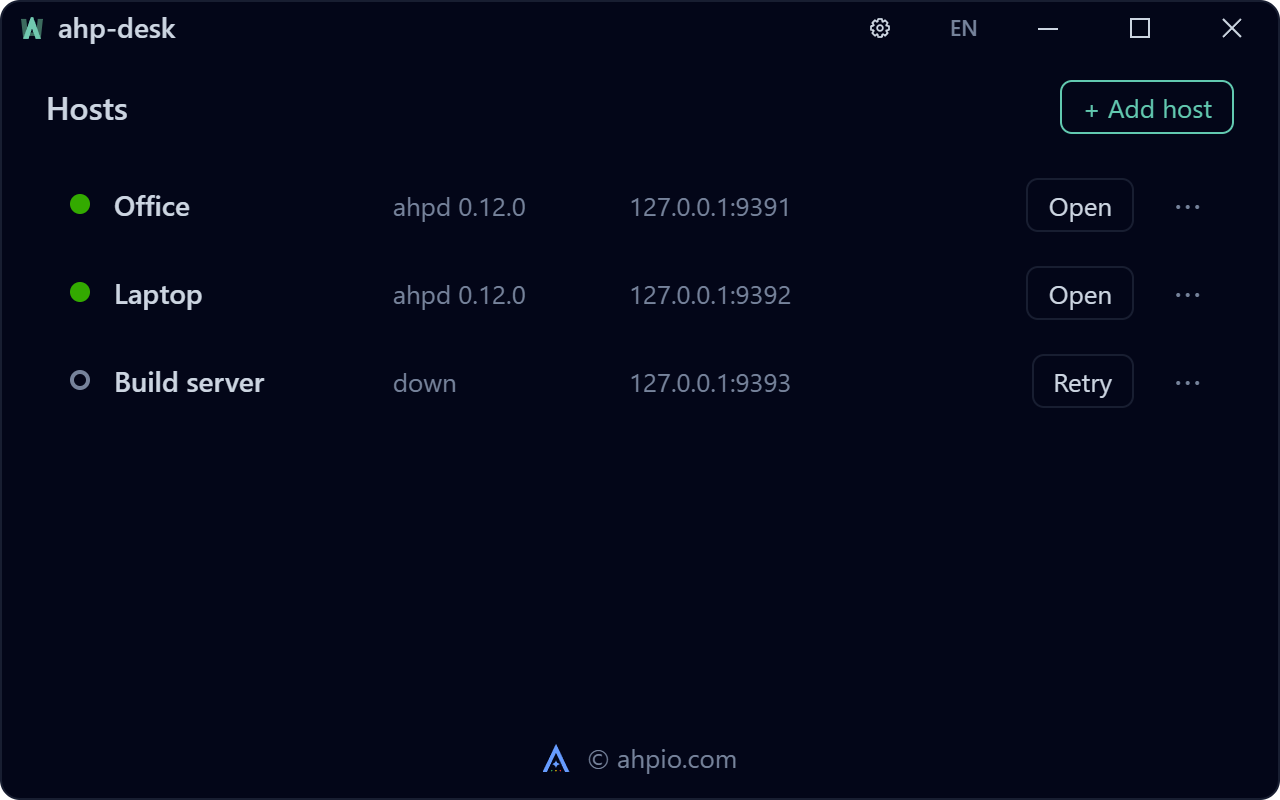
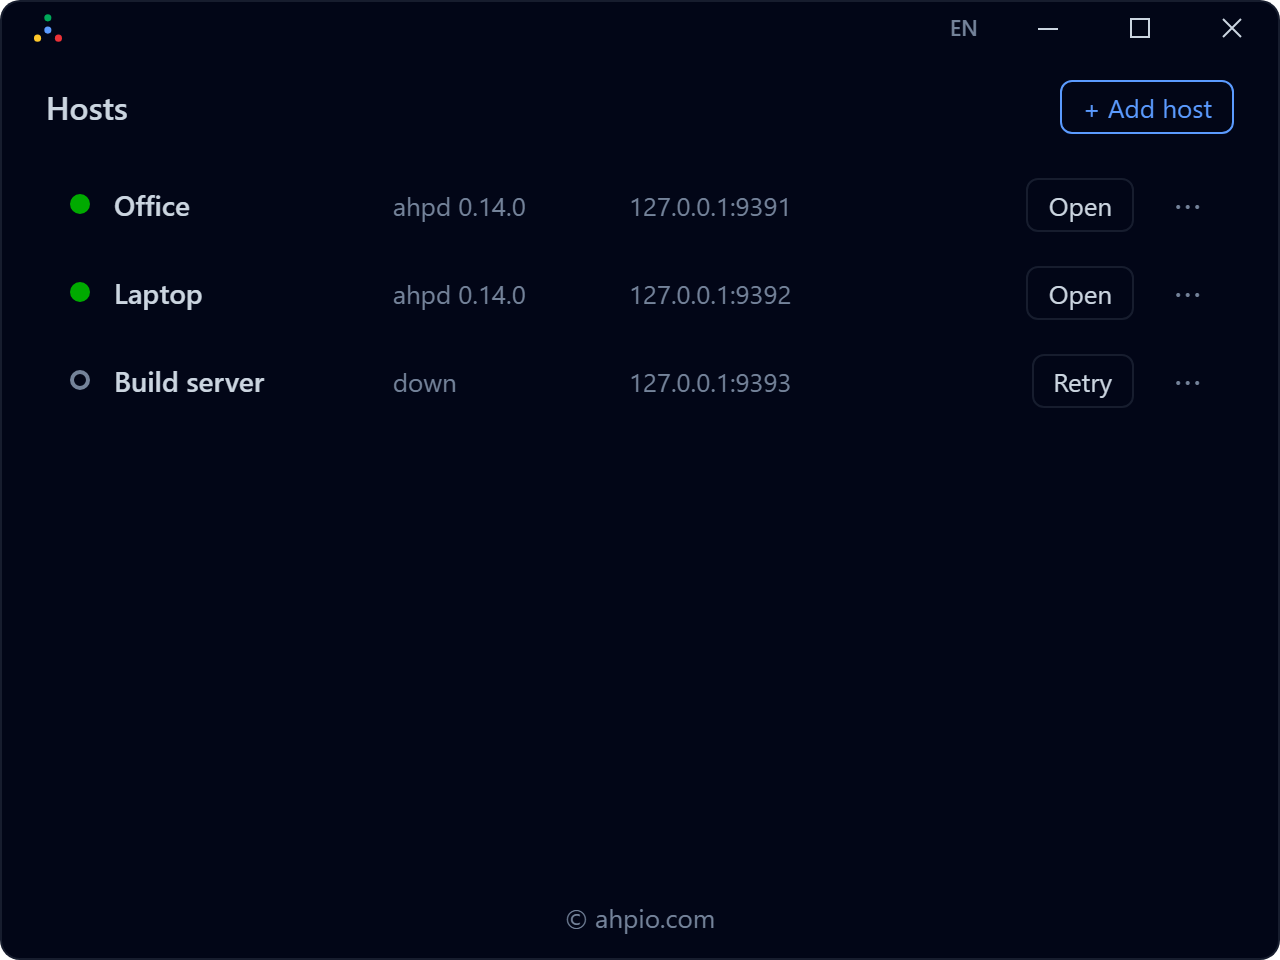
README: screenshots of 0.2.3 and the three ways to add a host
The host list and welcome screenshots show ahpio's mark, the blue accent and Launch at startup; Where is your host, This computer and Connect via SSH mid-install, and Remote host are new.

diff --git a/README.md b/README.md
@@ -8,7 +8,7 @@ A desktop app for [Agent Host Protocol](https://microsoft.github.io/agent-host-p
 
 Keep a list of your hosts, see which ones are up, and open each one in a window of its own with [ahpw](https://github.com/softov/ahpw).
 
-![The host list with two hosts connected on ahpd 0.12.0 and one down](docs/media/host-list-dark.png)
+![The host list with two hosts connected on ahpd 0.14.0 and one down](docs/media/host-list-dark.png)
 
 What you get:
 
@@ -19,7 +19,7 @@ What you get:
   - **Connect via SSH**, a Linux server you can sign in to; the desk uses the ahpd it finds there, or installs one, and reaches it through an SSH tunnel or an open port.
 - **A window per host**, with ahpw inside: sessions, chats, terminals and the rest of the host.
 - **Updates**, for the desk itself and for ahpd: the host list says when a newer one is ready, and nothing restarts until you click.
-- **The tray**, where the desk stays when you close the list, and **Start with the OS**, so your hosts are there after you sign in.
+- **The tray**, where the desk stays when you close the list, and **Launch at startup**, so your hosts are there after you sign in.
 - **English, Português and Español.**
 
 ---
@@ -42,7 +42,21 @@ With no tray, closing the host list quits the desk.
 
 The first start welcomes you and asks where your first host is:
 
-![The welcome screen, with Start with the OS and Get started](docs/media/welcome-dark.png)
+![The welcome screen, with Launch at startup and Get started](docs/media/welcome-dark.png)
+
+![Where is your host? Remote host, This computer, or Connect via SSH](docs/media/where-dark.png)
+
+**This computer** uses the ahpd it finds here, or installs one with the desk's own Node:
+
+![This computer, installing ahpd with the Claude backend](docs/media/add-local-dark.png)
+
+**Connect via SSH** checks the server first, then uses the ahpd it finds there or installs one as a user service:
+
+![Connect via SSH, installing ahpd on an Ubuntu server, with Sign in, Check the server and Node done](docs/media/add-ssh-dark.png)
+
+**Remote host** takes the address and token of an AHP server you already run:
+
+![Remote host, with a name, an address and a token](docs/media/add-remote-dark.png)
 
 Once installed, the desk updates itself: it checks each release's signature before it installs it.
 
